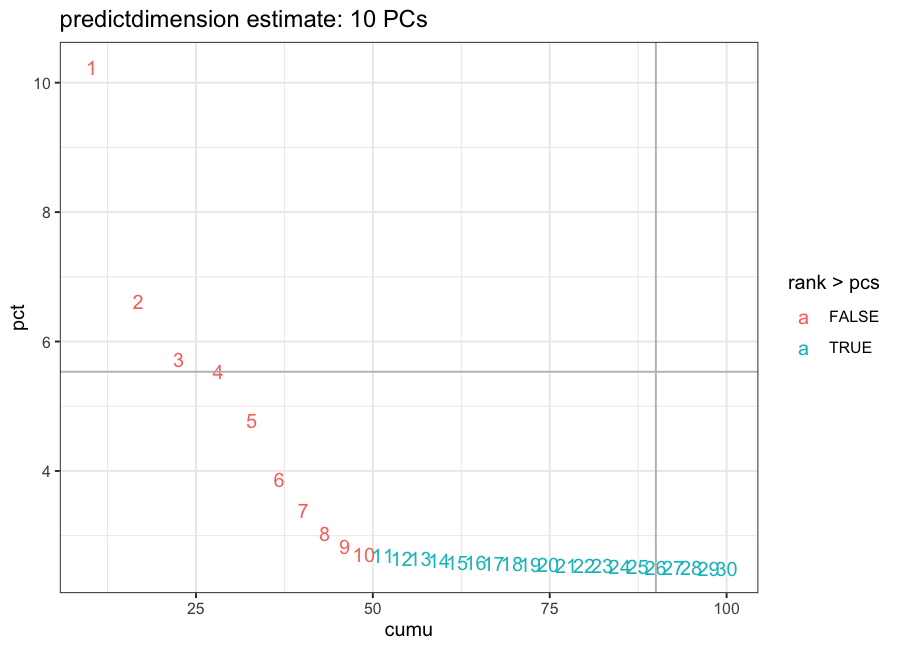
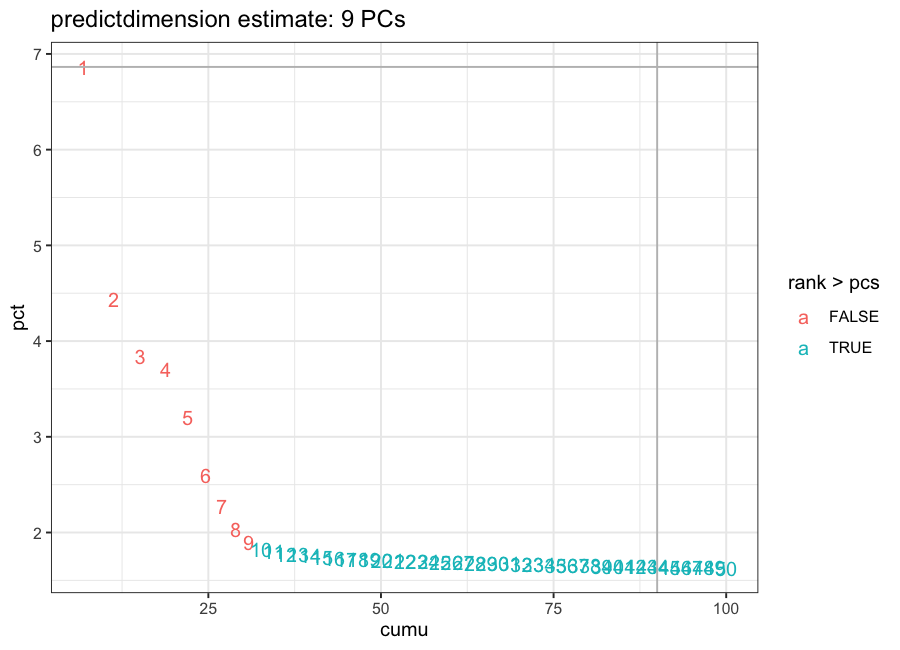
Make predictdimension example consistent at 9 PCs (npcs=50)
Regenerate the example elbow with Seurat's default RunPCA(npcs = 50) so the
figure, the validation writeup and the worked example all report 9 PCs, and
note that the estimate depends on npcs.

diff --git a/README.md b/README.md
@@ -265,6 +265,11 @@ it takes the **minimum** of
 number of PCs (invisibly, as an integer - so it is pipeable), and by default
 draws the annotated diagnostic plot (kept PCs vs discarded PCs colour-coded).
 
+> Note: the heuristic normalises variance over the PCs present in the object, so
+> the estimate depends slightly on how many were computed. Keep a consistent
+> `npcs` (Seurat's default is `RunPCA(npcs = 50)`); on PBMC3k at that default it
+> returns 9.
+
 ```r
 pcs <- predictdimension(obj)            # plot + return
 pcs <- predictdimension(obj, plot = FALSE)   # just the number